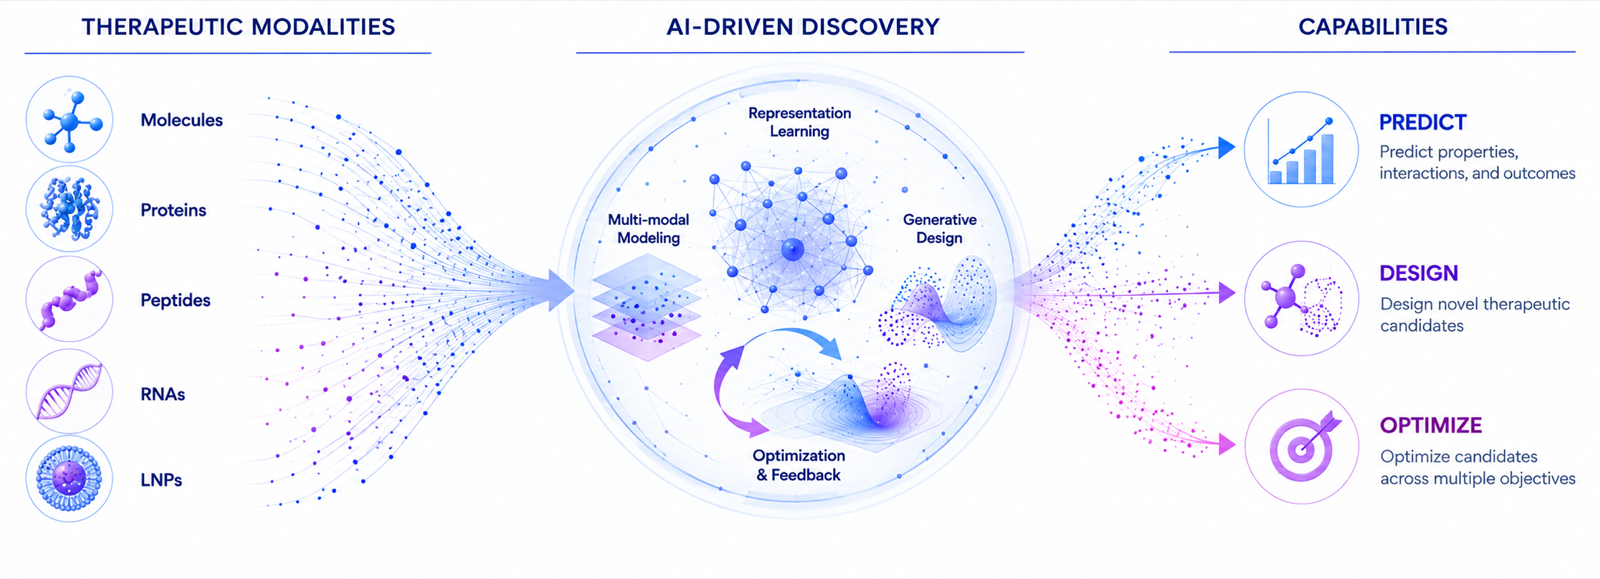
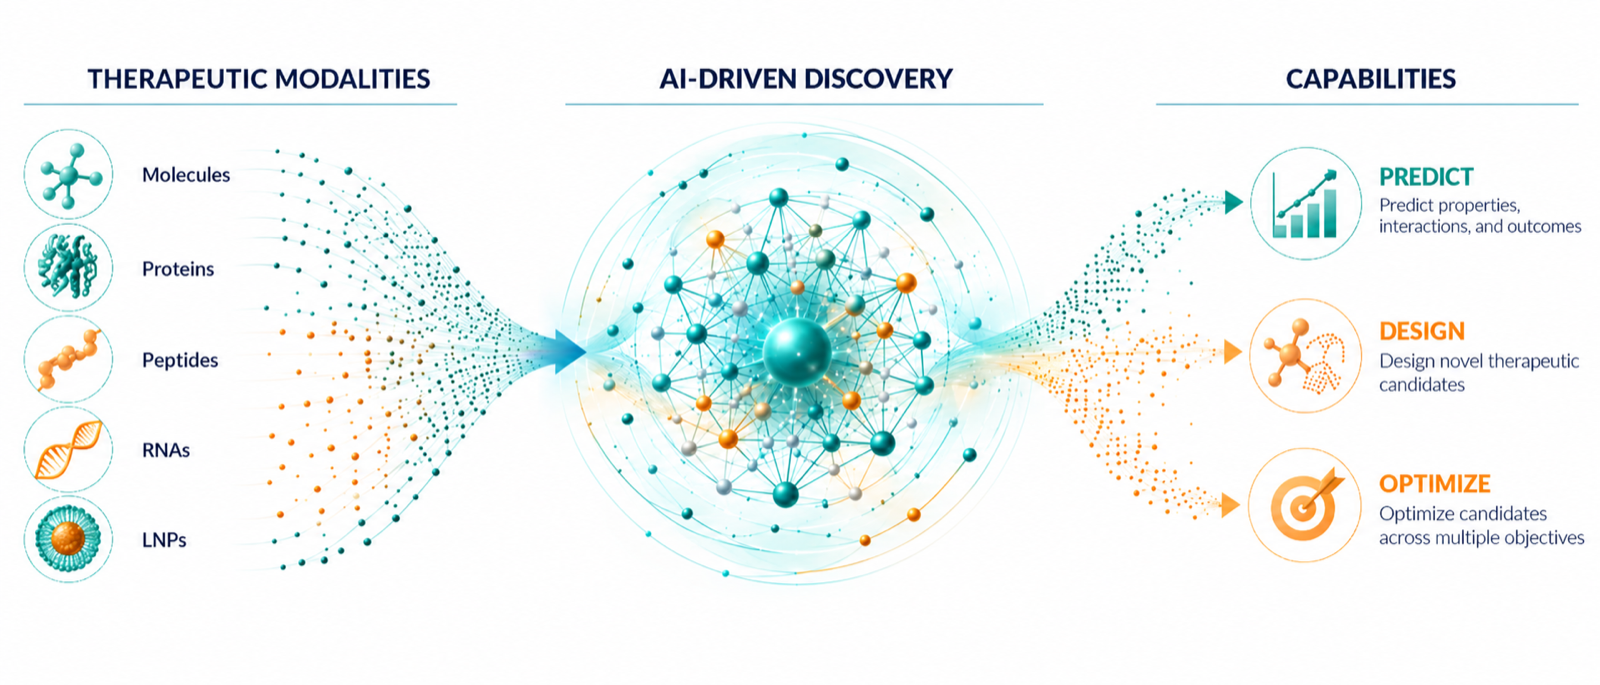
Deploying to gh-pages from @ alvinchanlabntu/alvinchanlabntu.github.io@56d5ea37f3223963b78a8afdbf0e26efe64342a4 🚀

Changed region(s): [[0.0, 0.0311, 1.0, 0.9016], [0.7188, 0.0311, 0.9688, 0.1554]]

diff --git a/index.html b/index.html
@@ -469,16 +469,15 @@
 
 <h2 id="research-at-the-interface-of-ai-and-medicine">Research at the interface of AI and medicine</h2>
 
-<div class="feature" data-contain="" style="--feature-image-ratio: 1600 / 579;">
-  <a href="/publications" class="feature-image" aria-label="AI-driven therapeutic discovery">
-    <img src="/images/home/ai-driven-therapeutic-discovery.png" loading="lazy" alt="AI-driven therapeutic discovery" onerror="this.src = '/images/fallback.svg'; this.onerror = null;">
+<div class="feature" data-contain="" style="--feature-image-ratio: 1600 / 685;">
+  <a href="/publications" class="feature-image" aria-label="feature link">
+    <img src="/images/home/ai-driven-therapeutic-discovery.png" loading="lazy" alt="feature image" onerror="this.src = '/images/fallback.svg'; this.onerror = null;">
   </a>
   <div class="feature-text">
     
-      <p class="feature-title">AI-driven therapeutic discovery</p>
     
-    
-<p>Our vision is to advance AI-driven therapeutic discovery across molecules, proteins, peptides, RNAs, and LNPs. We develop computational methods for representation learning, modality-specific and cross-modal modeling, generative design, and feedback-guided optimization. Together, these methods support three core capabilities: predicting properties and interactions, designing novel therapeutic candidates, and optimizing candidates across multiple objectives.</p>
+<p><strong>AI-driven therapeutic discovery.</strong><br>
+Our research spans five therapeutic modalities: molecules, proteins, peptides, RNAs, and LNPs. Across these modalities, we develop AI methods that support three core capabilities: predicting properties, interactions, and outcomes; designing novel therapeutic candidates; and optimizing candidates across multiple objectives.</p>
 
 
   </div>
